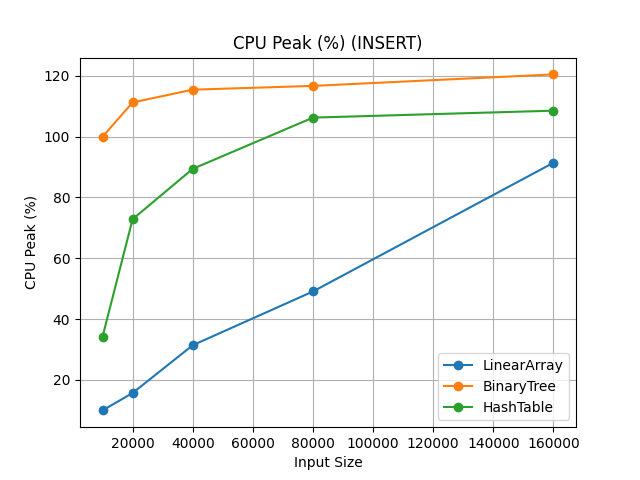
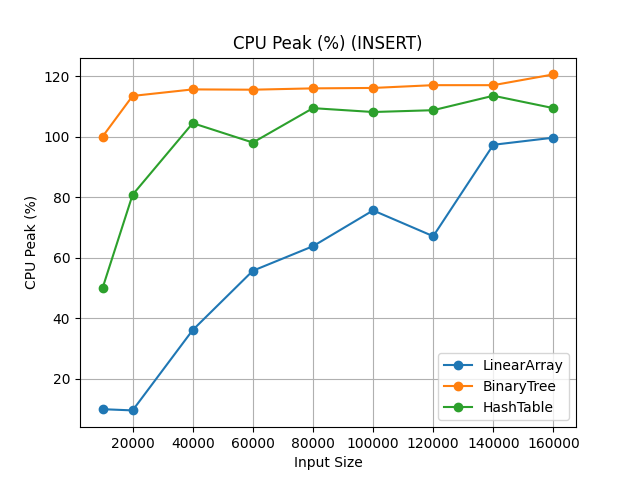
Benchmark run

diff --git a/main.py b/main.py
@@ -2,7 +2,7 @@ from benchmark import Benchmark
 
 if __name__ == "__main__":
 
-    sizes = [10000, 20000, 40000, 80000, 160000]
+    sizes = [10000, 20000, 40000, 60000, 80000, 100000, 120000, 140000, 160000]
 
     benchmark = Benchmark(rounds=5, sizes=sizes)
     benchmark.run()
